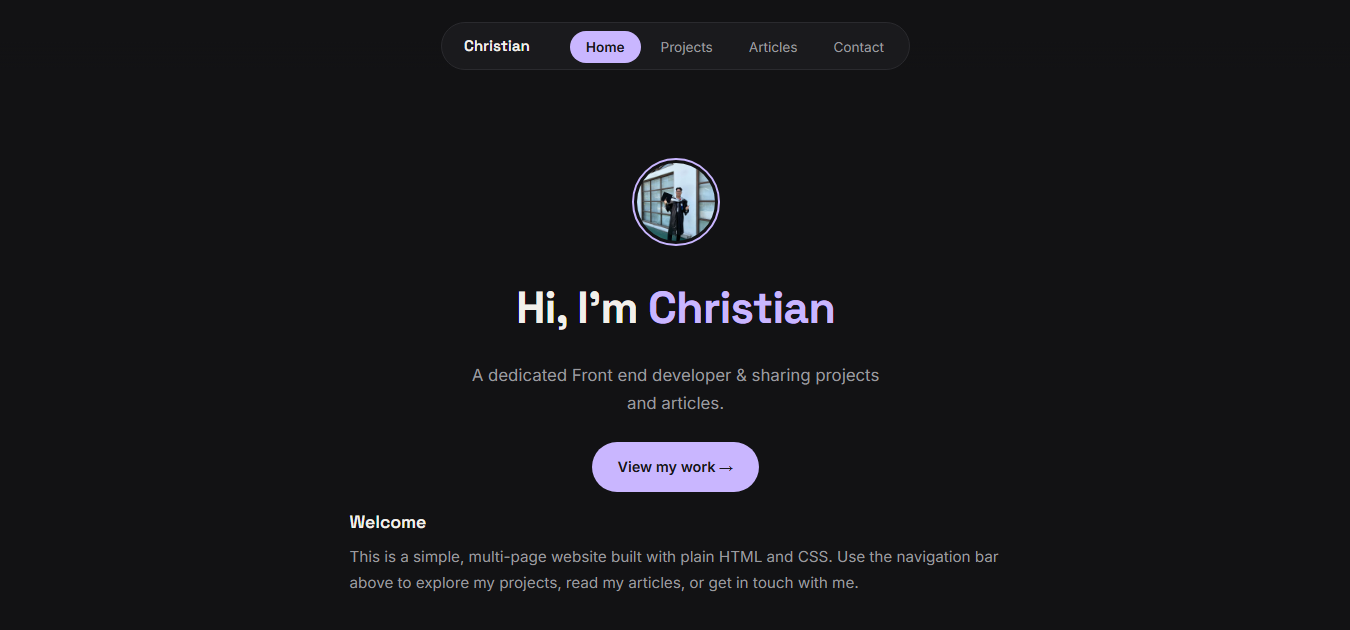
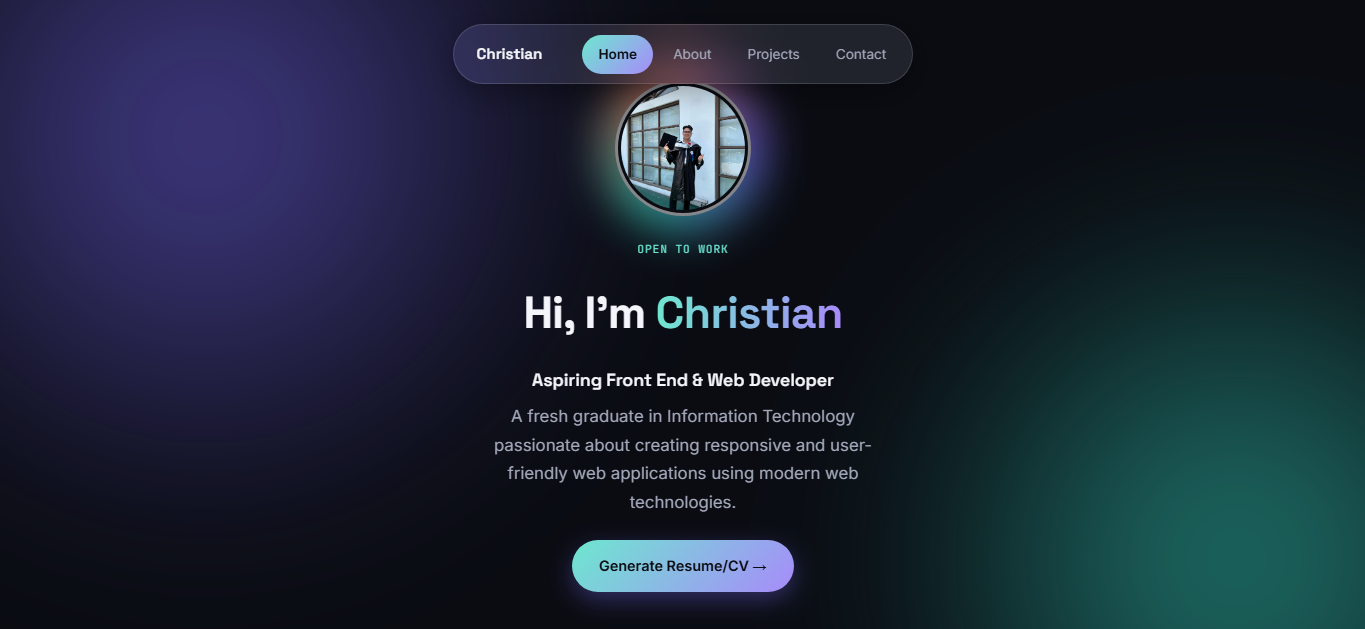
updating my image

diff --git a/projects.html b/projects.html
@@ -36,10 +36,10 @@
       </section>
 
       <section class="card-grid">
-        <a href="#" class="card" data-category="web">
+        <a href="index.html" class="card" data-category="web">
           <div class="card-image">
             <img
-              src="/pic/Portfolio.png"
+              src="/pic/portfolio.png"
               alt="Screenshot of the Portfolio Site"
             />
           </div>

diff --git a/index.html b/index.html
@@ -25,7 +25,7 @@
     <main>
       <div class="hero">
         <div class="avatar-wrap">
-          <img src="/pic/chan.png" alt="Christian" class="avatar" />
+          <img src="/pic/chanpic.jpeg" alt="Christian" class="avatar" />
         </div>
         <p class="eyebrow">Open to work</p>
         <h1>Hi, I'm <span class="accent">Christian</span></h1>
